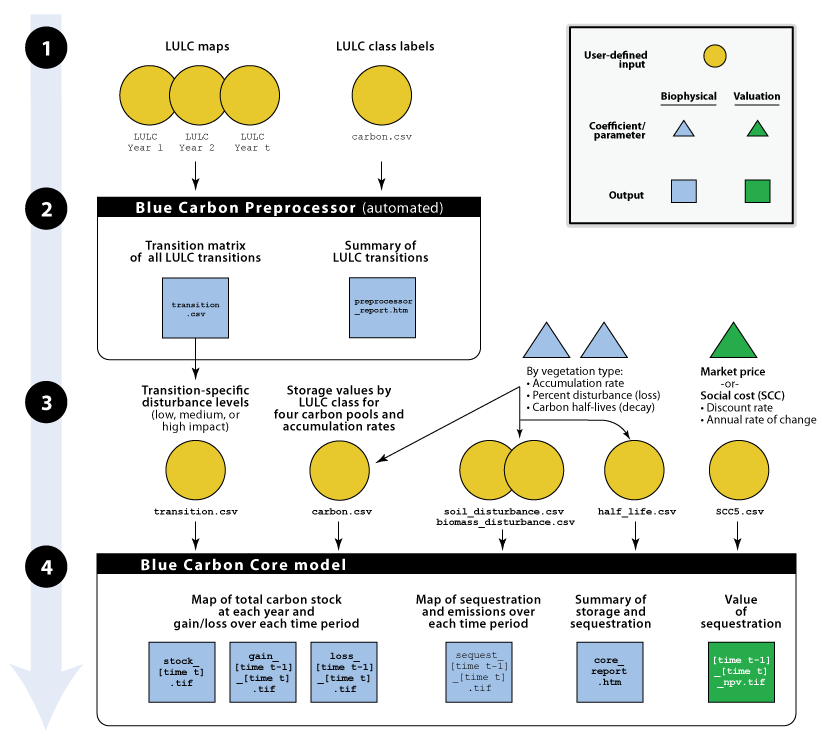
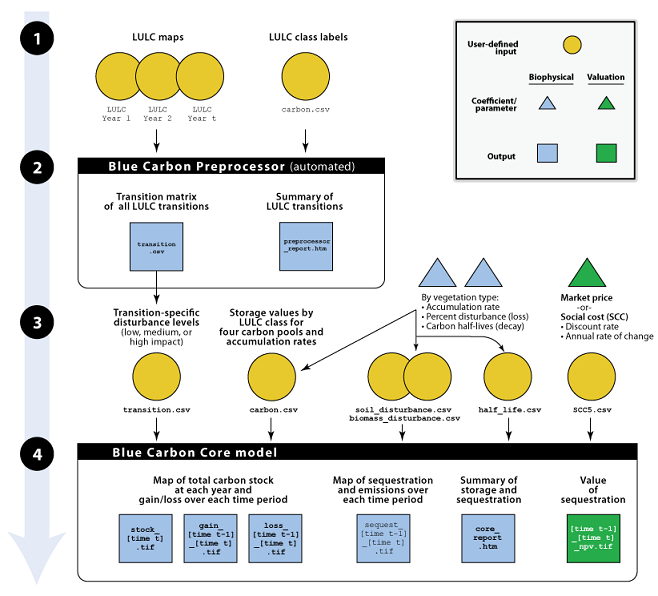
Updates to BC figures and text.

diff --git a/source/blue_carbon.rst b/source/blue_carbon.rst
@@ -22,16 +22,19 @@ Modeling considerations
 -----------------------
 Mapping and modeling changes in carbon storage and sequestration for coastal and marine habitats can present challenges.  The types of spatial inputs and available information about the carbon cycle vary by location.  Some study areas may have high quality data available for a detailed analysis while other locations may not have the information necessary to model changes in the position and function of coastal vegetation.  Salt marsh, for example, is often studied in the context of migration from rising seas.  The combination of natural (e.g. rising seas) and anthropogenic (e.g. saltmarsh migration blocked by roads) factors should be included in scenario maps and subsequent carbon modeling when possible.  When exploring future land cover scenarios, land cover map outputs produced by the SLAMM model (Sea Level Affecting Marshes Model, developed by Warren Pinnacle) can be useful inputs to the InVEST blue carbon model (Clougheet et al. 2010).  However, because not all sites have the detailed elevation and habitat information required to run SLAMM, we have built a flexible approach that allows users to provide either detailed land use/land cover maps or maps indicating the presence of coastal and marine vegetation that can sequester carbon.
 
-.. figure:: ./blue_carbon_images/conceptual_diagram.png
 
 How it works
 ------------
-The InVEST blue carbon model combines information about the distribution and abundance of coastal vegetation with habitat specific carbon stock data and accumulation rates to estimate carbon storage, sequestration and value across a landscape.  The model simplifies the carbon storage and sequestration process to account for storage in four main pools (aboveground biomass, belowground biomass, standing dead carbon and sediment carbon, see Figure 1).  Accumulation of carbon in coastal habitats occurs primarily in sediments (Pendleton et al., 2012).  The model requires users to provide maps of coastal ecosystems that store carbon, such as mangroves and seagrasses.  Users must also provide data on the amount of carbon stored in the four carbon pools and the rate of annual carbon accumulation in the sediments. If local information is not available, users can draw on the global database of values for carbon stocks and accumulation rates sourced from the peer-reviewed literature that is included in the model.  If data from field studies or other local sources are available, these values should be used instead of those in the global database.  The model requires land cover maps, which represent changes in human use patterns in coastal areas or changes to sea level, to estimate the amount of carbon lost or gained over a specified period of time.  The model quantifies carbon storage across the land or seascape by summing the carbon stored in the four carbon pools. 
+The InVEST blue carbon model combines information about the distribution and abundance of coastal vegetation with habitat specific carbon stock data and accumulation rates to estimate carbon storage, sequestration and value across a landscape.  The model simplifies the carbon storage and sequestration process to account for storage in four main pools (aboveground biomass, belowground biomass, standing dead carbon and sediment carbon, see Figure 1).  Accumulation of carbon in coastal habitats occurs primarily in sediments (Pendleton et al., 2012).  The model requires users to provide maps of coastal ecosystems that store carbon, such as mangroves and seagrasses.  Users must also provide data on the amount of carbon stored in the four carbon pools and the rate of annual carbon accumulation in the sediments. If local information is not available, users can draw on the global database of values for carbon stocks and accumulation rates sourced from the peer-reviewed literature that is included in the model.  If data from field studies or other local sources are available, these values should be used instead of those in the global database.  The model requires land cover maps, which represent changes in human use patterns in coastal areas or changes to sea level, to estimate the amount of carbon lost or gained over a specified period of time.  The model quantifies carbon storage across the land or seascape by summing the carbon stored in these four carbon pools. 
 
 .. figure:: ./blue_carbon_images/pools.png
 
-Figure 1. Conceptual model of carbon sequestration and storage in marine ecosystems using mangrove as an example
+Figure 1. Four carbon pools for marine ecosystems included in the InVEST blue carbon model (mangrove example).  
 
+
+.. figure:: ./blue_carbon_images/conceptual_diagram.png
+
+Figure 2.  Conceptual diagram of the InVEST blue carbon model
 
 A.  Carbon storage
 ^^^^^^^^^^^^^^^^^^
